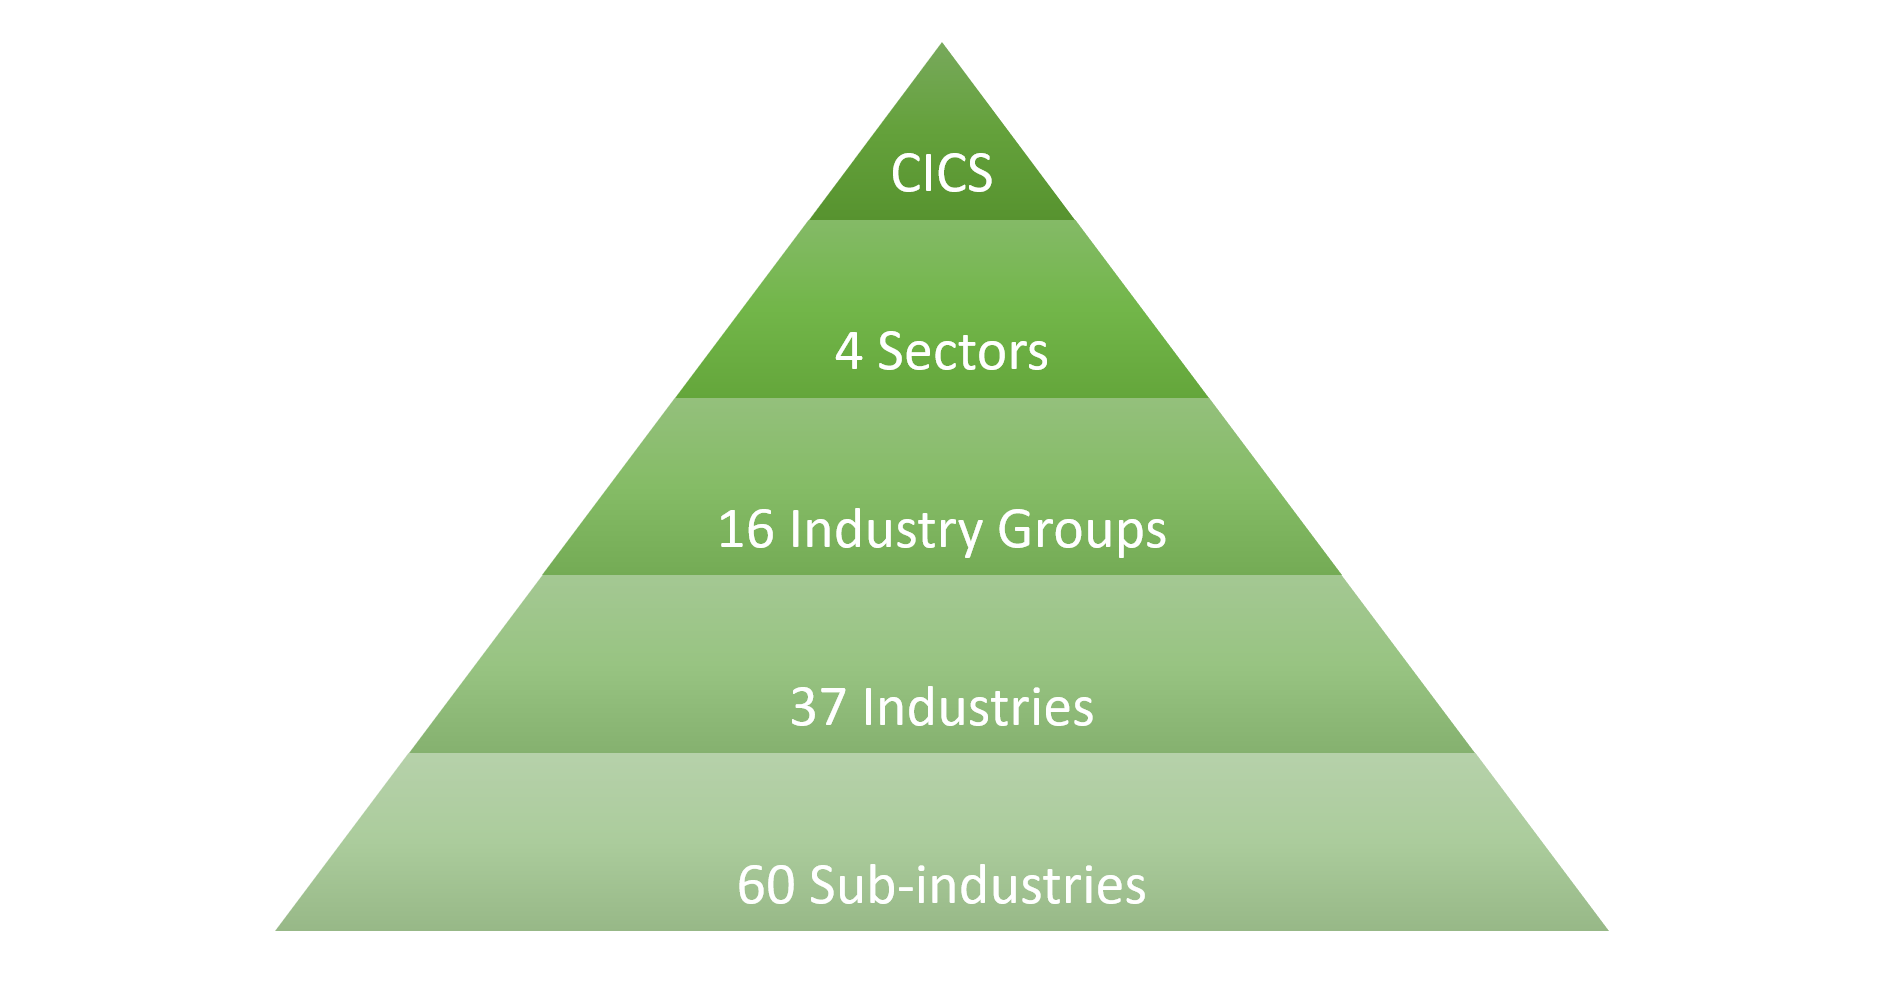
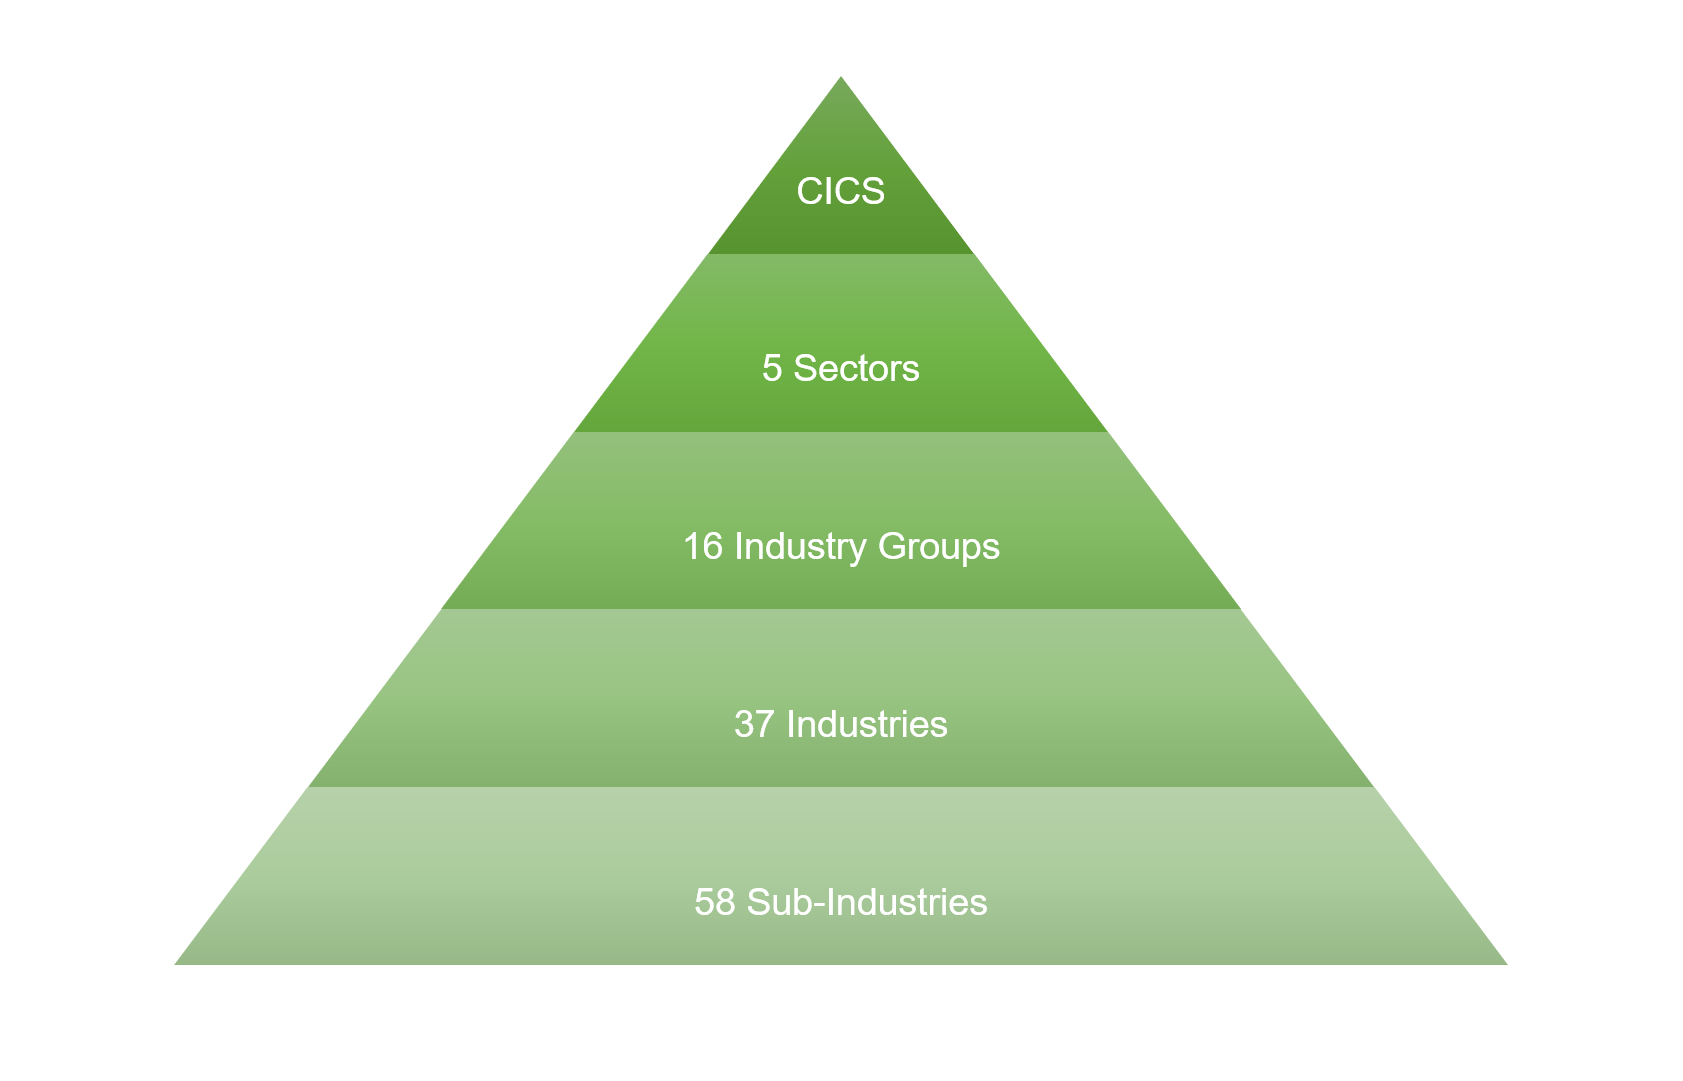
GitBook: [#130] No subject

diff --git a/README.md b/README.md
@@ -2,6 +2,6 @@
 
 Crypto Industry Classification Standard (CICS) is a classification standard focused on the crypto universe. CICS is a four-tiered, hierarchical industry classification system. It comprises 5 Sectors, 16 Industry Groups, 37 Industries, and 58 Sub-Industries.
 
-<figure><img src=".gitbook/assets/CICS piramid (2).png" alt=""><figcaption><p>Hierarchical structure of CICS.</p></figcaption></figure>
+<figure><img src=".gitbook/assets/CICS piramid (1).png" alt=""><figcaption></figcaption></figure>
 
 The CICS methodology is considered a crypto industry analytical framework for industry research, investment analysis, portfolio management, and asset allocation. Companies are classified qualitatively due to the current lack of quantitative data in the crypto universe. As the crypto universe develops, quantitive data will become a critical factor for the classification methodology and be used accordingly. Each company or project is assigned a single CICS classification at the sub-industry level according to its principal business activity.&#x20;
